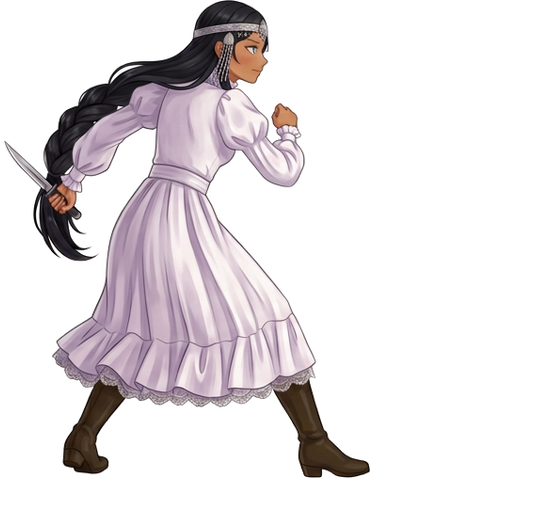
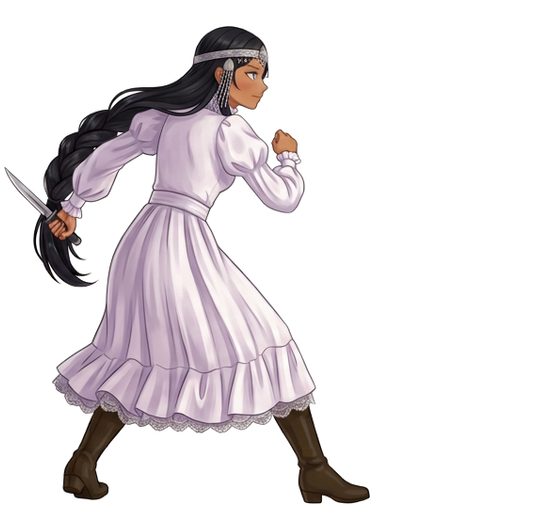
Земля поднята к ступням, кадры атаки встали на землю

Changed region(s): [[0.0, 0.0, 0.6679, 1.0]]

diff --git a/Concepts/level_build.py b/Concepts/level_build.py
@@ -50,6 +50,12 @@ DECOR_TREE = {
 
 GROUND_H = 2.933594      # спрайт земли при PPU 256
 GROUND_COLL = 2.5        # толщина коллайдера земли
+# У спрайта земли 58 прозрачных строк сверху (PPU 256 => 0.2266 юнита), а пивот
+# стоит по верхнему краю холста. Из-за этого видимая трава оказывалась НИЖЕ
+# поверхности, на которой стоит героиня, и между её ступнями и землёй зиял
+# просвет. Поэтому GameObject поднимаем на GROUND_LIFT, а коллайдер опускаем на
+# столько же: верх поверхности остаётся ровно на GROUND[y][3].
+GROUND_LIFT = 0.2266
 CHASM_DEPTH = 6.0
 START_X = -30.0           # где встаёт героиня
 HERO_Y = 0.031           # её ступни в локальных координатах
@@ -337,9 +343,10 @@ for i, (name, x0, x1, top) in enumerate(GROUND):
     gid = 210000000 + i * 10
     w, cx = round(x1 - x0, 4), round((x0 + x1) / 2, 4)
     blocks.append(gameobject(gid, name, [gid + 1, gid + 2, gid + 3], order))
-    blocks.append(transform(gid + 1, gid, (cx, top, 0), order))
+    blocks.append(transform(gid + 1, gid, (cx, round(top + GROUND_LIFT, 4), 0), order))
     blocks.append(sprite(gid + 2, gid, GROUND_GUID, ORDER_GROUND, (w, GROUND_H), 2))
-    blocks.append(box(gid + 3, gid, (0, -GROUND_COLL / 2), (w, GROUND_COLL)))
+    blocks.append(box(gid + 3, gid, (0, round(-GROUND_LIFT - GROUND_COLL / 2, 4)),
+                      (w, GROUND_COLL)))
     order += 1
 
 # --- платформы: спрайт по центру => transform y = низ + 0.5
